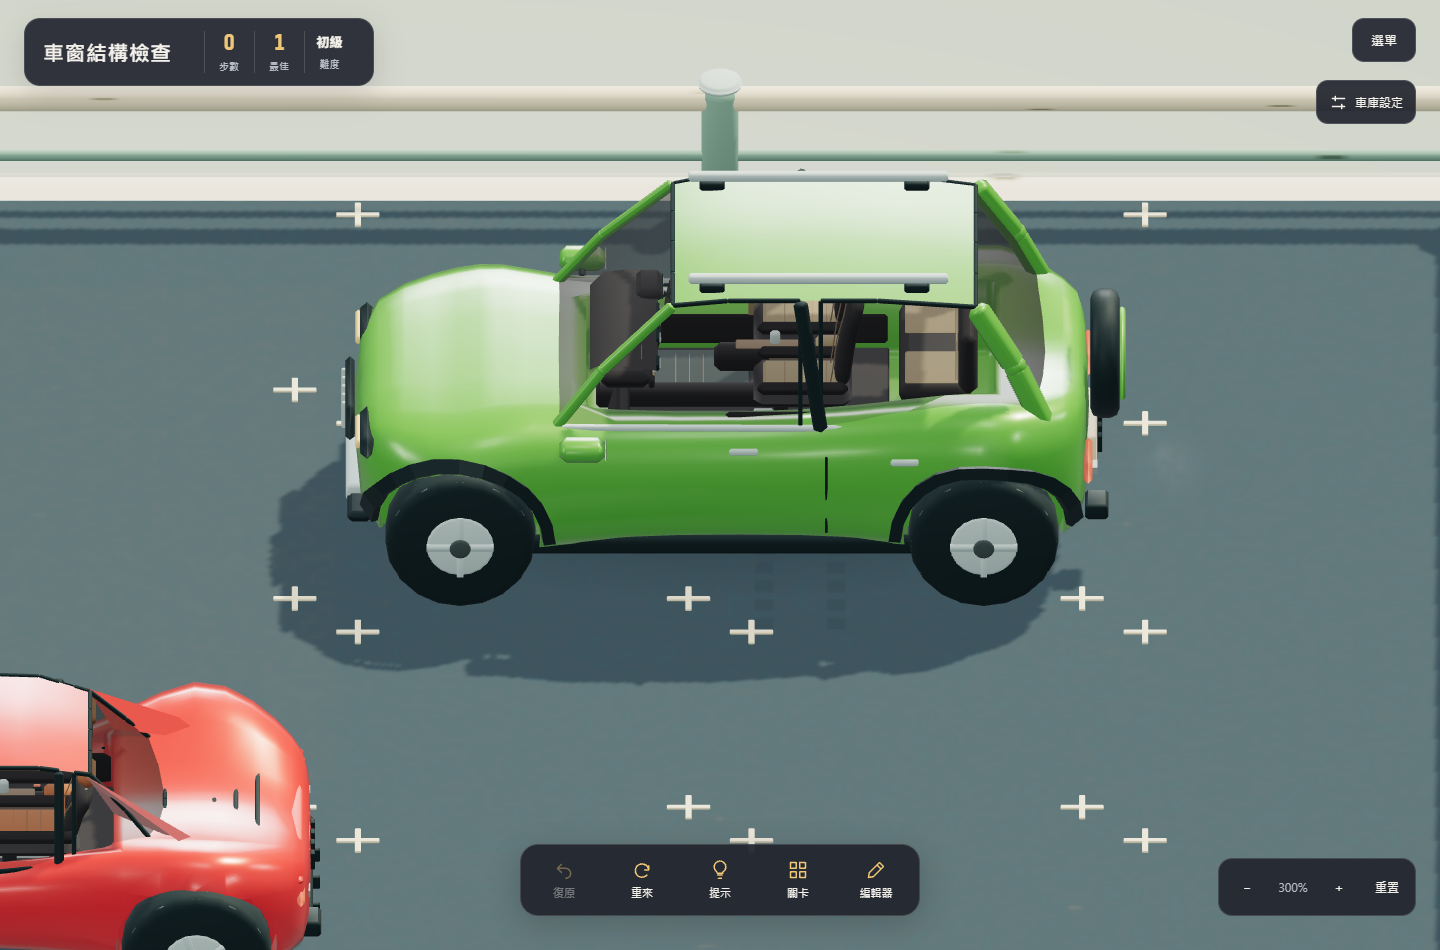
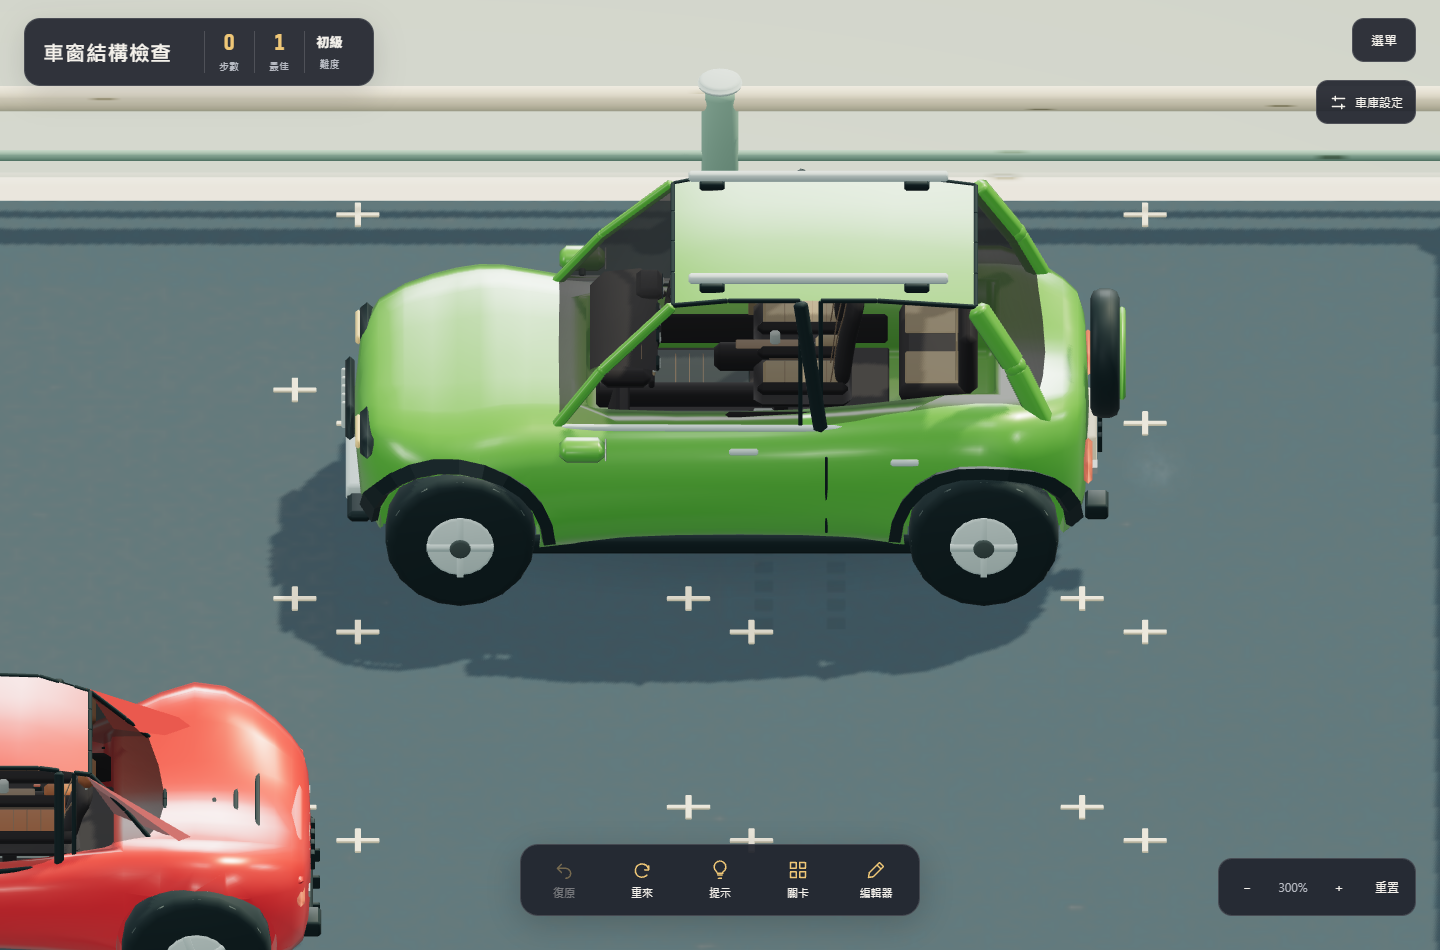
Deepen clear automotive glass with smoked film absorption

diff --git a/src/vehicleGlass.js b/src/vehicleGlass.js
@@ -60,13 +60,16 @@ export function configureVehicleGlass(material, quality, optics = 'thin-sheet') 
     shader.fragmentShader=shader.fragmentShader.replace('#include <opaque_fragment>',`
       float paneCos=max(.001,abs(dot(geometryNormal,geometryViewDir)));
       float paneFresnel=.04+.96*pow(1.-paneCos,5.);
-      float paneAlpha=clamp(.10/max(.30,paneCos)+paneFresnel,.10,.94);
+      // Smoked solar film absorbs light without scattering the cabin image.
+      // Beer-Lambert absorption deepens smoothly along oblique viewing paths.
+      float paneAbsorption=1.-exp(-.28/max(.30,paneCos));
+      float paneAlpha=clamp(paneAbsorption+(1.-paneAbsorption)*paneFresnel,.04,.94);
       outgoingLight=(totalSpecular+totalEmissiveRadiance)/paneAlpha;
       diffuseColor.a=paneAlpha;
       #include <opaque_fragment>
     `);
   };
-  material.customProgramCacheKey=()=>refractive?'refractive-glass-v1':'thin-sheet-glass-v1';
+  material.customProgramCacheKey=()=>refractive?'refractive-glass-v1':'thin-sheet-glass-v2';
   if (wasRefractive !== refractive || wasTransparent !== material.transparent || wasSide !== material.side)
     material.needsUpdate = true;
   if(previousOptics!==material.userData.optics) material.needsUpdate=true;

diff --git a/docs/glazing-structure-2026-10-06/README.md b/docs/glazing-structure-2026-10-06/README.md
@@ -6,8 +6,11 @@ Camera gestures and vehicle dragging previously reduced the transmission buffer
 to 20–30% resolution. Refraction now stays at full resolution throughout motion.
 All vehicle windows use a polished 0.003 roughness and a thin 4 mm optical layer.
 The restrained tint uses absorption/base colour rather than roughness blur.
-High and standard retain physical transmission and Fresnel/environment reflection;
-saver retains clear alpha glazing without the refraction framebuffer.
+All quality levels now use clear thin-sheet glazing with physical specular and
+Fresnel/environment reflection, without the shared refraction framebuffer.
+Smoked film uses Beer-Lambert absorption with optical depth 0.28: straight-on
+glass transmits about 73% before reflection, with deeper tint at oblique angles.
+Roughness remains 0.003; the cabin image is not scattered or blurred.
 
 Thin panes have explicit front/back faces with reversed normals. This preserves
 visibility from both directions while avoiding the renderer's extra DoubleSide
@@ -38,17 +41,18 @@ replay all 40 official solution routes.
 
 `scripts/verify-glazing-structure.mjs` runs against an isolated browser without
 service-worker bypass. It reviews nine vehicles from side and front angles,
-captures entrance close-ups, verifies polished transmission during real right
+captures entrance close-ups, verifies clear glazing during real right
 mouse orbit, and checks a real car drag, move count and undo. A 390×844 emulated
 mobile layout has no horizontal overflow; this is not a physical phone test.
 
 Screenshots and the final JSON report accompany this document. Tests restore the
-isolated browser's game storage afterward. `gpu.json` identifies Intel UHD Graphics
-via ANGLE/D3D11. At 1440×950, DPR 1, the nine-car orbit measured about 23 FPS high
-and 24 FPS standard after the thin-pane optimization, versus about 20/22 before.
-Median draw calls fell from 172 to 163. Full-resolution transmission remains a
-GPU cost on this integrated GPU; these measurements are not a 60 FPS guarantee.
+isolated browser's game storage afterward. The latest nine-car orbit retains
+100 draw calls and 206,480 triangles in both high and standard quality. The
+isolated automated browser delivers only about 8–10 frames per second in this
+environment; this does not establish physical-phone performance. Historical
+`gpu.json` predates the thin-sheet renderer; see the performance document for
+the comparison and current GPU timers.
 
 The production offline test also confirms that the current snapshot can recover
 from a legacy worker, load its versioned racer model without network access, and
-preserve progress. See `production-offline.json`.
+preserve progress. See `../performance-2026-10-06/tint-offline.json` for this release.
